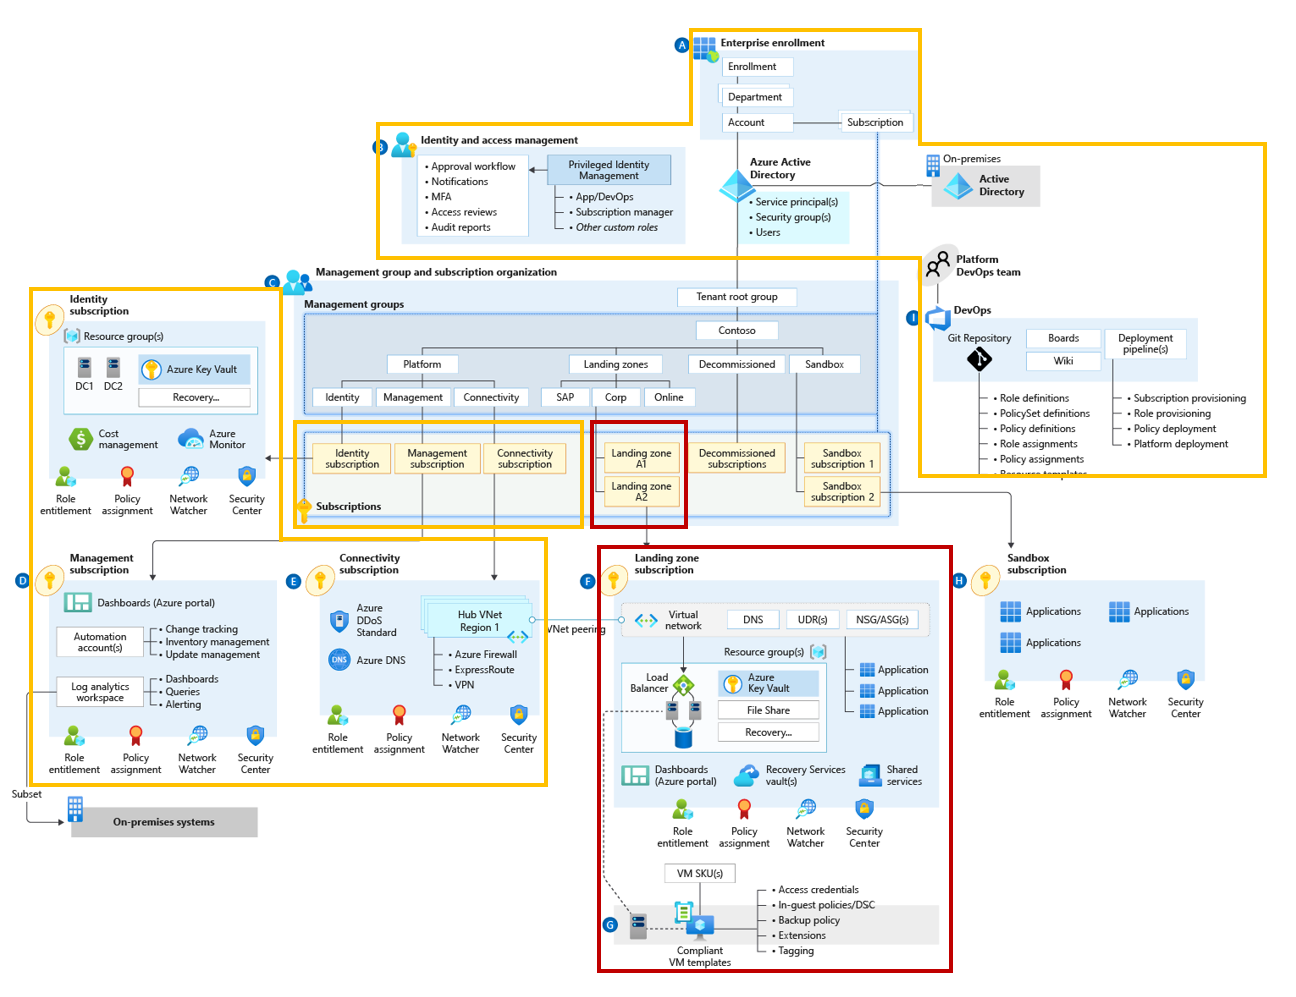
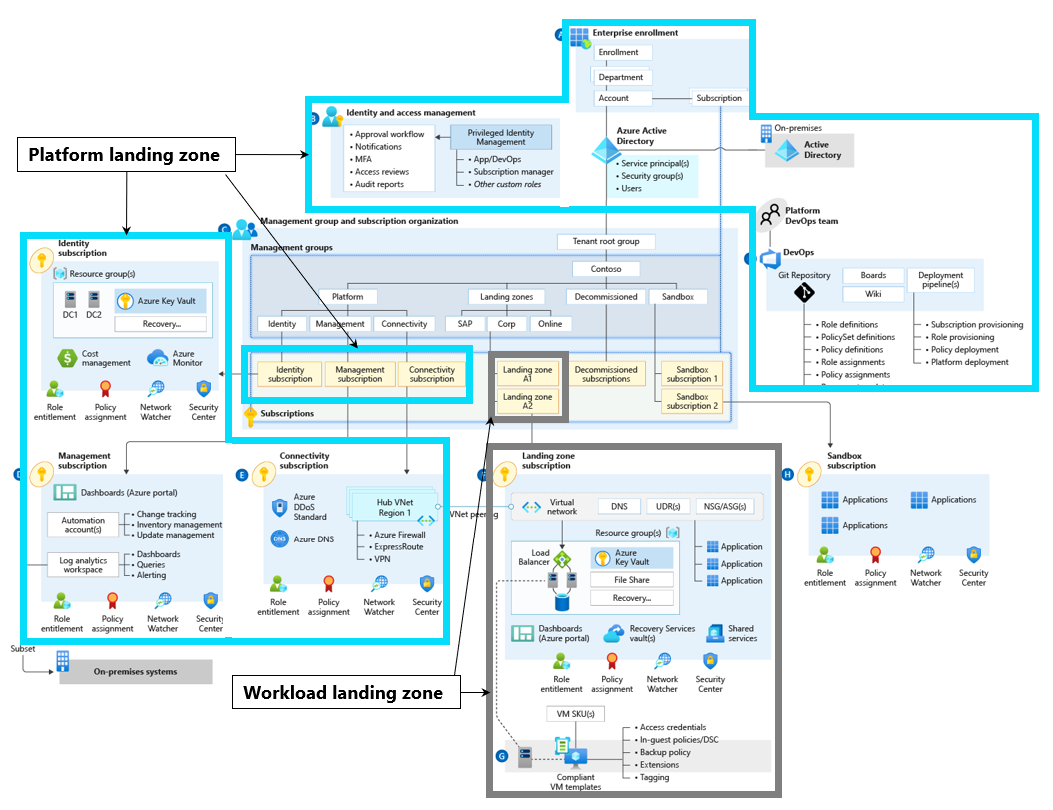
updates

Changed region(s): [[0.0, 0.0, 1.0, 0.9877], [0.0304, 0.1852, 0.2127, 0.216]]

diff --git a/docs/scenarios/defense/plan.md b/docs/scenarios/defense/plan.md
@@ -30,9 +30,9 @@ Cloud brokers provided the following benefits:
 
 A landing zone includes all the components defense workloads need for secure, reliable, and cost-effective cloud operations. There are two types of landing zones, platform landing zones and workload landing zones.
 
-***Platform landing zone*** - The platform landing zone provides core services used by multiple workloads. In the sample architecture below, the components and subscriptions outlined in yellow comprise the platform landing zone. Together they provide shared services, such as identity, management, and connectivity, to the workloads in this tenant.
+***Platform landing zone*** - The platform landing zone provides core services used by multiple workloads. In the sample architecture below, the components and subscriptions outlined in teal comprise the platform landing zone. Together they provide shared services, such as identity, management, and connectivity, to the workloads in this tenant.
 
-***Workload landing zone*** - The workload landing zones are for workloads. The red boxes outline the workload landing zones. There are two workload landing zone subscriptions in the diagram below (Landing zone A1 and Landing Zone A2). The image only shows one workload landing zone in detail (Landing Zone A2).
+***Workload landing zone*** - The workload landing zones are for workloads. The grey boxes outline the workload landing zones. There are two workload landing zone subscriptions in the diagram below (Landing zone A1 and Landing Zone A2). The image only shows one workload landing zone in detail (Landing Zone A2).
 
 :::image type="content" source="./images/cloud-broker-landing-zone.png" alt-text="Diagram of an Azure landing zone architecture. A sample architecture showing the platform landing zone and workload landing zones. It shows the Azure Active Directory tenant with management groups underneath. The management groups divide into platform, landing zones, decommissioned, and sandbox. Under these management groups and children management groups with subscriptions beneath them. The architecture shows the contents of these subscriptions. The platform landing zone management group contains identity, management, and connectivity subscriptions. There are black boxes around the platform landing zone subscriptions. The workload landing zone management group contains two workload landing zone subscriptions. The contents of one is shown in detail. There are red boxes around the workload landing zone subscriptions.  " border="false":::
 *Diagram 2: Sample architecture showing the platform landing zone and workload landing zones*
